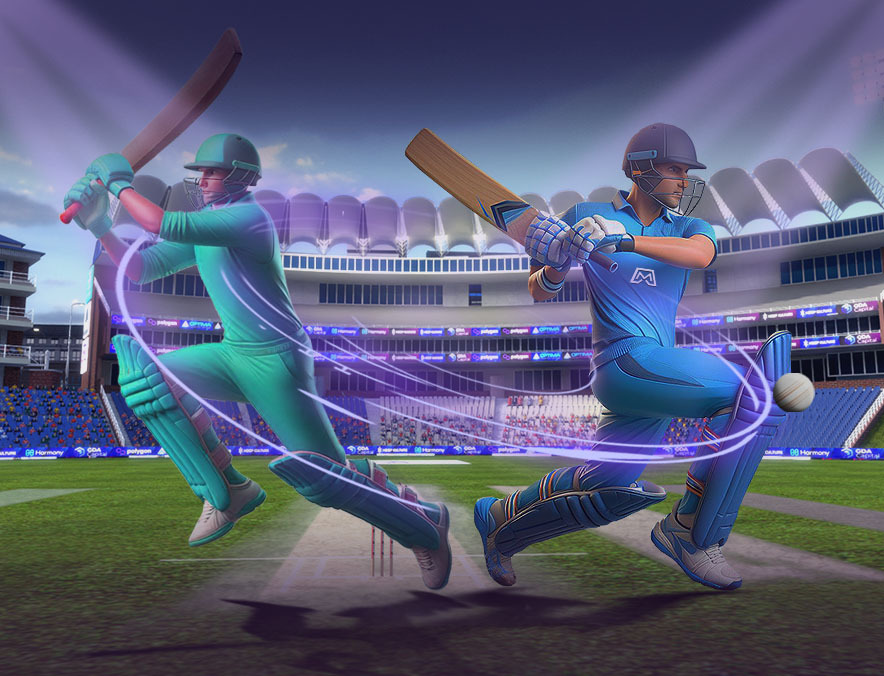
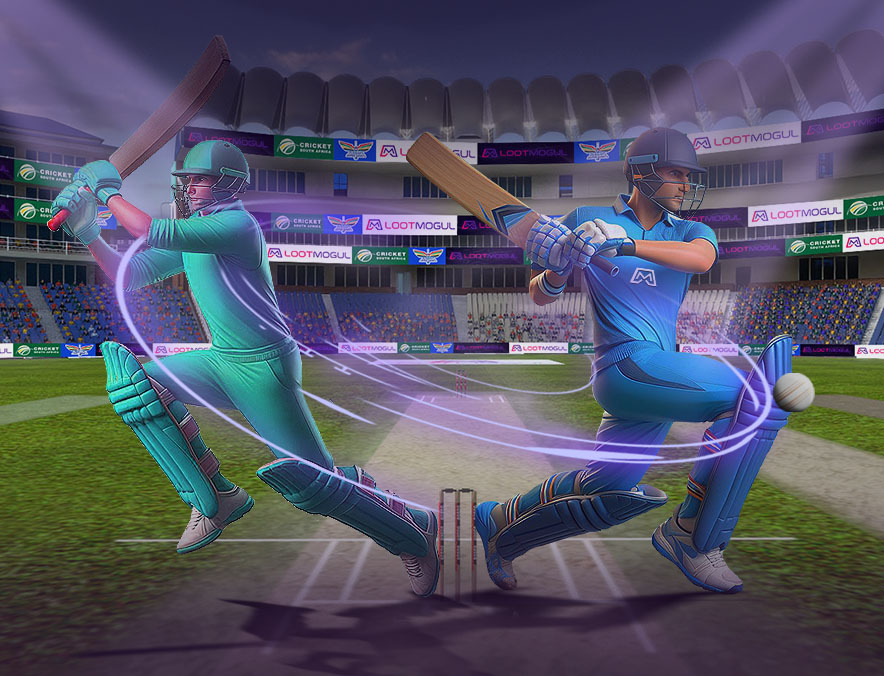
Update Image & Remove OLd
Update Image & Remove OLd

diff --git a/src/components/Games/Banner/index.jsx b/src/components/Games/Banner/index.jsx
@@ -117,14 +117,14 @@ const Banner = ({
                 alt="Image"
                 layout="fill"
                 //w="350px"
-                src="/assets/banner_dsg_website_new.jpg"
+                src="/assets/banner_dsg_website_HD.jpg"
             /> :
             <Image
                 objectFit="cover"
                 alt="Image"
                 layout="fill"
                 w="350px"
-                src="/assets/banner_dsg_website_2_mobile1.jpg"
+                src="/assets/banner_dsg_website_2_mobile.jpg"
             />
         }
             <div className="banner-read-thumb-lg">
